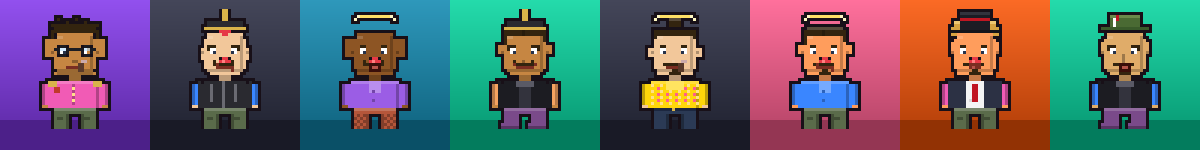
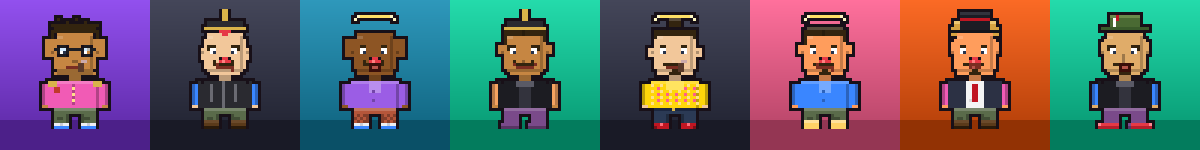
feat(generator): add shoes part (front + profile)
Eight options: sneakers, boots, dress-shoes, sandals, heels, rubber-boots, clown-shoes, barefoot. Wired into the editor and seeded last so existing seeds keep their other parts. Demonstrates id-based parts: no renumbering needed.

diff --git a/packages/generator/src/parts.ts b/packages/generator/src/parts.ts
@@ -12,6 +12,7 @@ export interface SideParts {
   accessory: PartId<"accessory">;
   top: PartId<"top">;
   trousers: PartId<"trousers">;
+  shoes: PartId<"shoes">;
 }
 
 /** Accessory ids that render as eyewear. */
@@ -518,6 +519,90 @@ export function drawGlasses(g: Ctx2D, id: GlassesId): void {
   P(g, 19, 13, 2, 1, l); // glint
 }
 
+/* ---------- shoes (drawn over the bottom of the legs) ---------- */
+
+export function drawShoes(g: Ctx2D, id: PartId<"shoes">, skin: string): void {
+  if (id === "none") return;
+  shoeFront(g, 9, id, -1, skin); // left foot (leg x9–13)
+  shoeFront(g, 18, id, 1, skin); // right foot (leg x18–22)
+}
+
+function shoeFront(g: Ctx2D, x: number, id: PartId<"shoes">, side: number, skin: string): void {
+  switch (id) {
+    case "sneakers":
+      P(g, x, 38, 5, 1, "#eef0f4");
+      P(g, x, 39, 5, 1, "#3a86ff");
+      px(g, x + 2, 38, "#c9ccd6");
+      break;
+    case "boots":
+      P(g, x, 37, 5, 3, "#5a3a1a");
+      P(g, x, 37, 5, 1, "#6b4a2a");
+      P(g, x, 39, 5, 1, "#2a1a0a");
+      break;
+    case "dress-shoes":
+      P(g, x, 38, 5, 2, "#1c1c22");
+      px(g, x + 1, 38, "#3a3a44");
+      break;
+    case "sandals":
+      P(g, x, 38, 5, 2, skin);
+      P(g, x, 39, 5, 1, "#5a3a2a");
+      px(g, x + 1, 38, "#5a3a2a");
+      px(g, x + 3, 38, "#5a3a2a");
+      break;
+    case "heels":
+      P(g, x, 38, 5, 2, "#c01622");
+      px(g, x + 2, 38, "#ff6b78");
+      px(g, side < 0 ? x : x + 4, 39, "#7a0e16");
+      break;
+    case "rubber-boots":
+      P(g, x, 37, 5, 3, "#ffd166");
+      P(g, x, 37, 5, 1, "#ffe09a");
+      break;
+    case "clown-shoes": {
+      const x0 = side < 0 ? x - 2 : x;
+      P(g, x0, 38, 7, 2, "#e63946");
+      P(g, x0, 39, 7, 1, "#b51e2b");
+      px(g, side < 0 ? x0 : x0 + 6, 38, "#ff8a93");
+      break;
+    }
+  }
+}
+
+const SIDE_SHOE_COLOR: Record<PartId<"shoes">, string> = {
+  sneakers: "#eef0f4",
+  boots: "#5a3a1a",
+  "dress-shoes": "#1c1c22",
+  sandals: "#7a5a3a",
+  heels: "#c01622",
+  "rubber-boots": "#ffd166",
+  "clown-shoes": "#e63946",
+  none: "#000000",
+};
+
+/** Shoes for the profile view (figure faces right; toe points +x). */
+export function drawShoesSide(g: Ctx2D, id: PartId<"shoes">): void {
+  if (id === "none") return;
+  const c = SIDE_SHOE_COLOR[id];
+  const c2 = shade(c, -0.28);
+  if (id === "clown-shoes") {
+    P(g, 11, 39, 5, 1, c2);
+    P(g, 15, 39, 9, 1, c); // long toe to x23
+    px(g, 23, 39, "#ff8a93");
+    return;
+  }
+  P(g, 11, 39, 5, 1, c2); // back foot
+  P(g, 15, 39, 6, 1, c); // front foot + toe
+  if (id === "boots" || id === "rubber-boots") {
+    P(g, 15, 38, 4, 1, c);
+    P(g, 12, 38, 3, 1, c2);
+  }
+  if (id === "dress-shoes") px(g, 19, 39, shade(c, 0.6));
+  if (id === "sandals") {
+    px(g, 16, 39, "#3a2a1a");
+    px(g, 18, 39, "#3a2a1a");
+  }
+}
+
 /* ---------- side / profile view (faces right; mirrored for left) ---------- */
 
 export function drawSide(g: Ctx2D, s: SideParts, skin: string, cloth: string, gx: "m" | "w" | "n"): void {
@@ -528,8 +613,7 @@ export function drawSide(g: Ctx2D, s: SideParts, skin: string, cloth: string, gx
   P(g, 11, 33, 5, 7, shade(PC, -0.2)); // back leg
   P(g, 15, 33, 5, 7, PC); // front leg
   P(g, 11, 33, 9, 2, shade(PC, 0.15)); // hip/belt
-  P(g, 15, 39, 3, 1, "#2a2a30");
-  P(g, 19, 39, 3, 1, "#1f1f25"); // shoes
+  drawShoesSide(g, s.shoes);
   // torso
   const suit = s.top === "suit";
   const tcol =

diff --git a/packages/generator/src/compose.snapshot.test.ts b/packages/generator/src/compose.snapshot.test.ts
@@ -62,4 +62,11 @@ describe("sprite snapshots", () => {
   it("is stable for a given seed", () => {
     expect(spriteToAscii(configFromSeed("Ada Lovelace"), "front")).toMatchSnapshot();
   });
+
+  it("draws shoes in front and profile", () => {
+    const booted = normalizeConfig({ trousers: "jeans", shoes: "boots" });
+    expect(spriteToAscii(booted, "front")).toMatchSnapshot();
+    expect(spriteToAscii(booted, "right")).toMatchSnapshot();
+    expect(spriteToAscii(normalizeConfig({ shoes: "clown-shoes" }), "front")).toMatchSnapshot();
+  });
 });

diff --git a/packages/generator/src/config.ts b/packages/generator/src/config.ts
@@ -13,6 +13,7 @@ export const DEFAULT_CONFIG: Readonly<AvatarConfig> = Object.freeze({
   trousers: "suit-trousers",
   build: "medium",
   accessory: "none",
+  shoes: "dress-shoes",
   skin: SKIN[2], // #e0ac69
   clothing: CLOTH[2], // #3a86ff
   background: BG[1], // #3a86ff
@@ -48,6 +49,7 @@ export function normalizeConfig(input: Partial<AvatarConfig> = {}): AvatarConfig
     trousers: normPart("trousers", input.trousers),
     build: normPart("build", input.build),
     accessory: normPart("accessory", input.accessory),
+    shoes: normPart("shoes", input.shoes),
     skin: normColor(input.skin, DEFAULT_CONFIG.skin),
     clothing: normColor(input.clothing, DEFAULT_CONFIG.clothing),
     background: normColor(input.background, DEFAULT_CONFIG.background),
@@ -114,6 +116,8 @@ function buildConfig(rng: Rng): AvatarConfig {
     background: pickColor(rng, BG),
     build: pickId(rng, "build"),
     accessory: pickId(rng, "accessory"),
+    // Appended last so existing seeds keep all their other parts unchanged.
+    shoes: pickId(rng, "shoes"),
     view: "front",
   };
 }

diff --git a/packages/generator/src/compose.ts b/packages/generator/src/compose.ts
@@ -9,6 +9,7 @@ import {
   px,
   clr,
   drawTrousers,
+  drawShoes,
   drawTop,
   drawHead,
   drawEars,
@@ -53,6 +54,7 @@ export function composeSprite(config: AvatarConfig, view: View = config.view): S
         accessory: config.accessory,
         top: config.top,
         trousers: config.trousers,
+        shoes: config.shoes,
       },
       skin,
       clothing,
@@ -60,6 +62,7 @@ export function composeSprite(config: AvatarConfig, view: View = config.view): S
     );
   } else {
     drawTrousers(g, config.trousers, skin);
+    drawShoes(g, config.shoes, skin);
     drawTop(g, config.top, clothing, skin);
     if (gx === "w") {
       clr(g, 8, 24);

diff --git a/packages/generator/src/config.test.ts b/packages/generator/src/config.test.ts
@@ -33,7 +33,7 @@ describe("config shape", () => {
     expect(DEFAULT_CONFIG.view).toBe("front");
     // English keys
     expect(Object.keys(DEFAULT_CONFIG).sort()).toEqual(
-      ["accessory", "background", "build", "clothing", "ears", "hair", "hat", "mouth", "nose", "skin", "top", "trousers", "view"],
+      ["accessory", "background", "build", "clothing", "ears", "hair", "hat", "mouth", "nose", "shoes", "skin", "top", "trousers", "view"],
     );
   });
 });

diff --git a/packages/generator/src/palettes.ts b/packages/generator/src/palettes.ts
@@ -15,6 +15,7 @@ export const PARTS = {
   trousers: ["suit-trousers", "jeans", "cargo", "shorts", "bell-bottoms", "sweatpants", "lederhosen", "plaid"],
   build: ["small", "medium", "large"],
   accessory: ["none", "nerd-glasses", "round-glasses", "sunglasses", "monocle", "full-beard", "moustache", "goatee"],
+  shoes: ["sneakers", "boots", "dress-shoes", "sandals", "heels", "rubber-boots", "clown-shoes", "none"],
 } as const;
 
 /** A part of the figure, e.g. `"hat"` or `"trousers"`. */
@@ -34,6 +35,7 @@ export const PART_LABELS: Record<PartKey, readonly string[]> = {
   trousers: ["Suit Trousers", "Jeans", "Cargo", "Shorts", "Bell-Bottoms", "Sweatpants", "Lederhosen", "Plaid"],
   build: ["Small", "Medium", "Large"],
   accessory: ["None", "Nerd Glasses", "Round Glasses", "Sunglasses", "Monocle", "Full Beard", "Moustache", "Goatee"],
+  shoes: ["Sneakers", "Boots", "Dress Shoes", "Sandals", "Heels", "Rubber Boots", "Clown Shoes", "Barefoot"],
 };
 
 /** The render-order index of a part id, or `-1` if unknown. */

diff --git a/packages/generator/src/types.ts b/packages/generator/src/types.ts
@@ -29,6 +29,8 @@ export interface AvatarConfig {
   build: PartId<"build">;
   /** Accessory — glasses or beard. */
   accessory: PartId<"accessory">;
+  /** Footwear. */
+  shoes: PartId<"shoes">;
   /** Skin tone, any `#rrggbb` hex. */
   skin: string;
   /** Clothing colour, any `#rrggbb` hex. */

diff --git a/packages/react-editor/src/AvatarEditor.tsx b/packages/react-editor/src/AvatarEditor.tsx
@@ -56,6 +56,7 @@ const PART_CONTROLS: readonly { key: PartKey; label: string }[] = [
   { key: "accessory", label: "ACCESSORY" },
   { key: "top", label: "TOP" },
   { key: "trousers", label: "TROUSERS" },
+  { key: "shoes", label: "SHOES" },
 ];
 
 const VIEW_OPTIONS: readonly { key: View; name: string }[] = [

diff --git a/.changeset/shoes.md b/.changeset/shoes.md
@@ -1,0 +1,9 @@
+---
+"@retro-antlitz-kartei/generator": minor
+"@retro-antlitz-kartei/react-editor": patch
+---
+
+Add a `shoes` part: sneakers, boots, dress-shoes, sandals, heels, rubber-boots,
+clown-shoes and barefoot — rendered in both front and profile views, with a
+matching editor control. Demonstrates that new parts append cleanly: existing
+seeds keep all their other parts (the shoe is the last seeded pick).

diff --git a/packages/generator/README.md b/packages/generator/README.md
@@ -67,6 +67,7 @@ interface AvatarConfig {
   trousers: "suit-trousers" | "jeans" | …;
   build: "small" | "medium" | "large";
   accessory: "none" | "nerd-glasses" | "full-beard" | …;
+  shoes: "sneakers" | "boots" | "dress-shoes" | "clown-shoes" | …;
   skin: string;       // hex, e.g. "#e0ac69"
   clothing: string;   // hex
   background: string; // hex